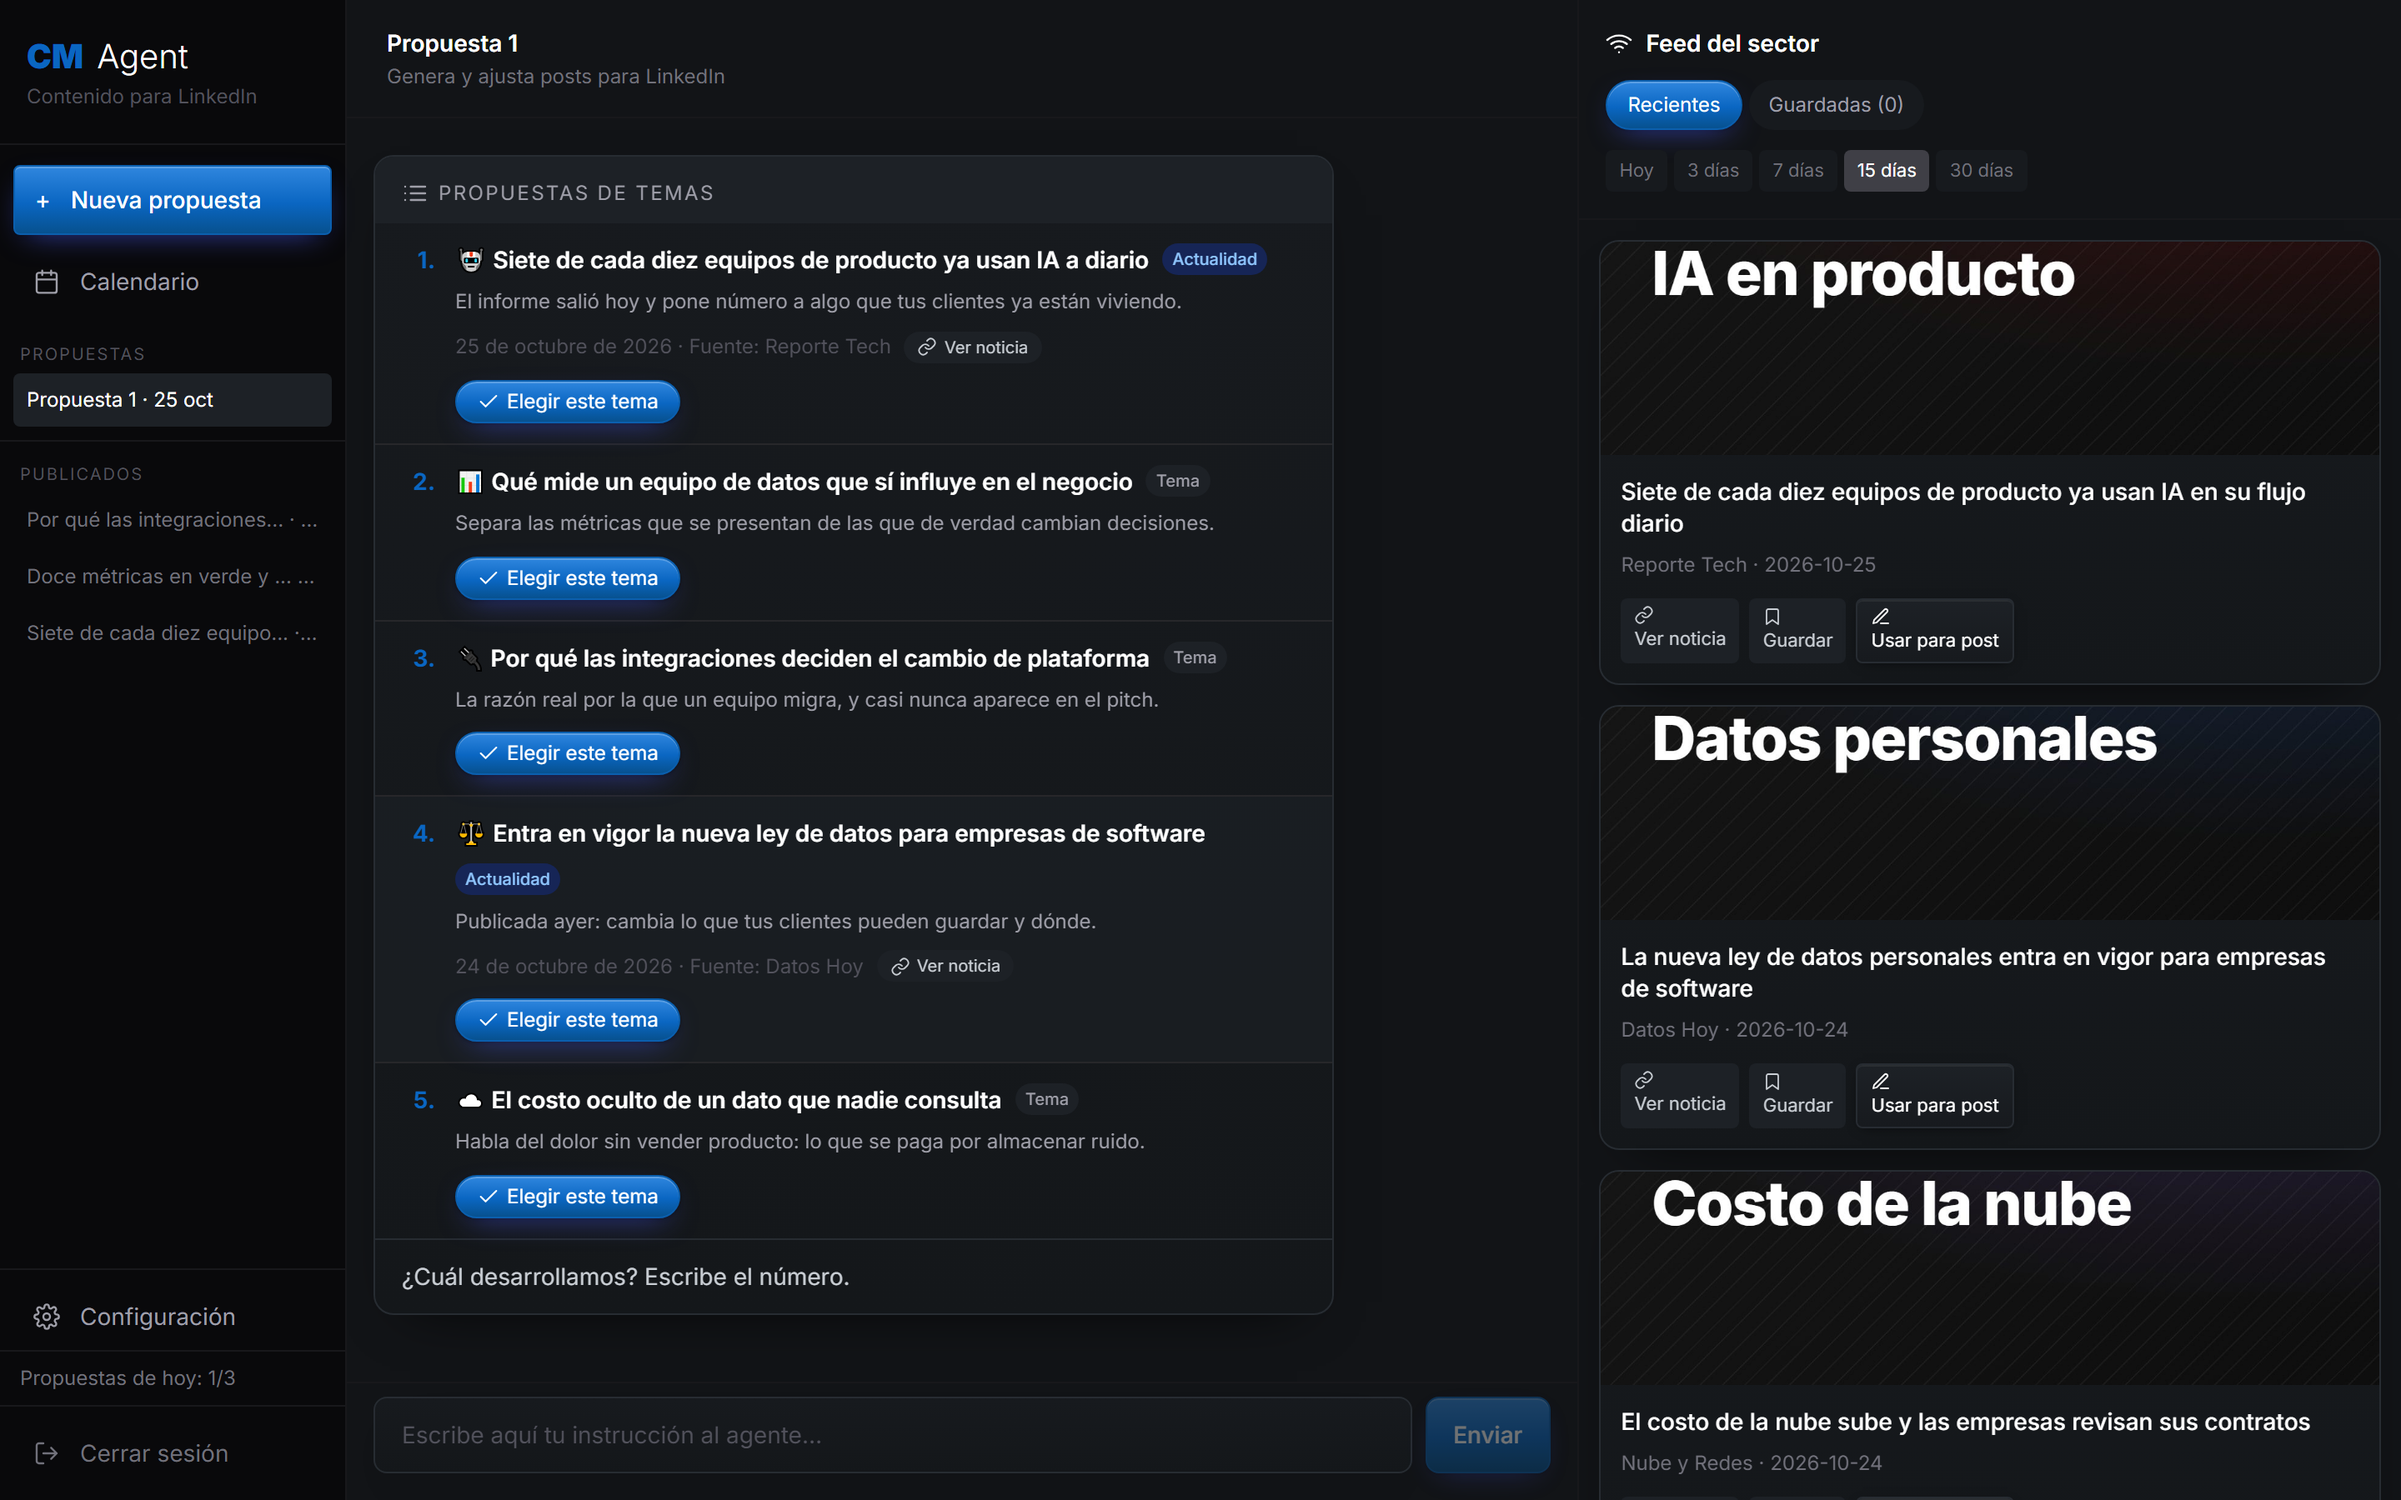
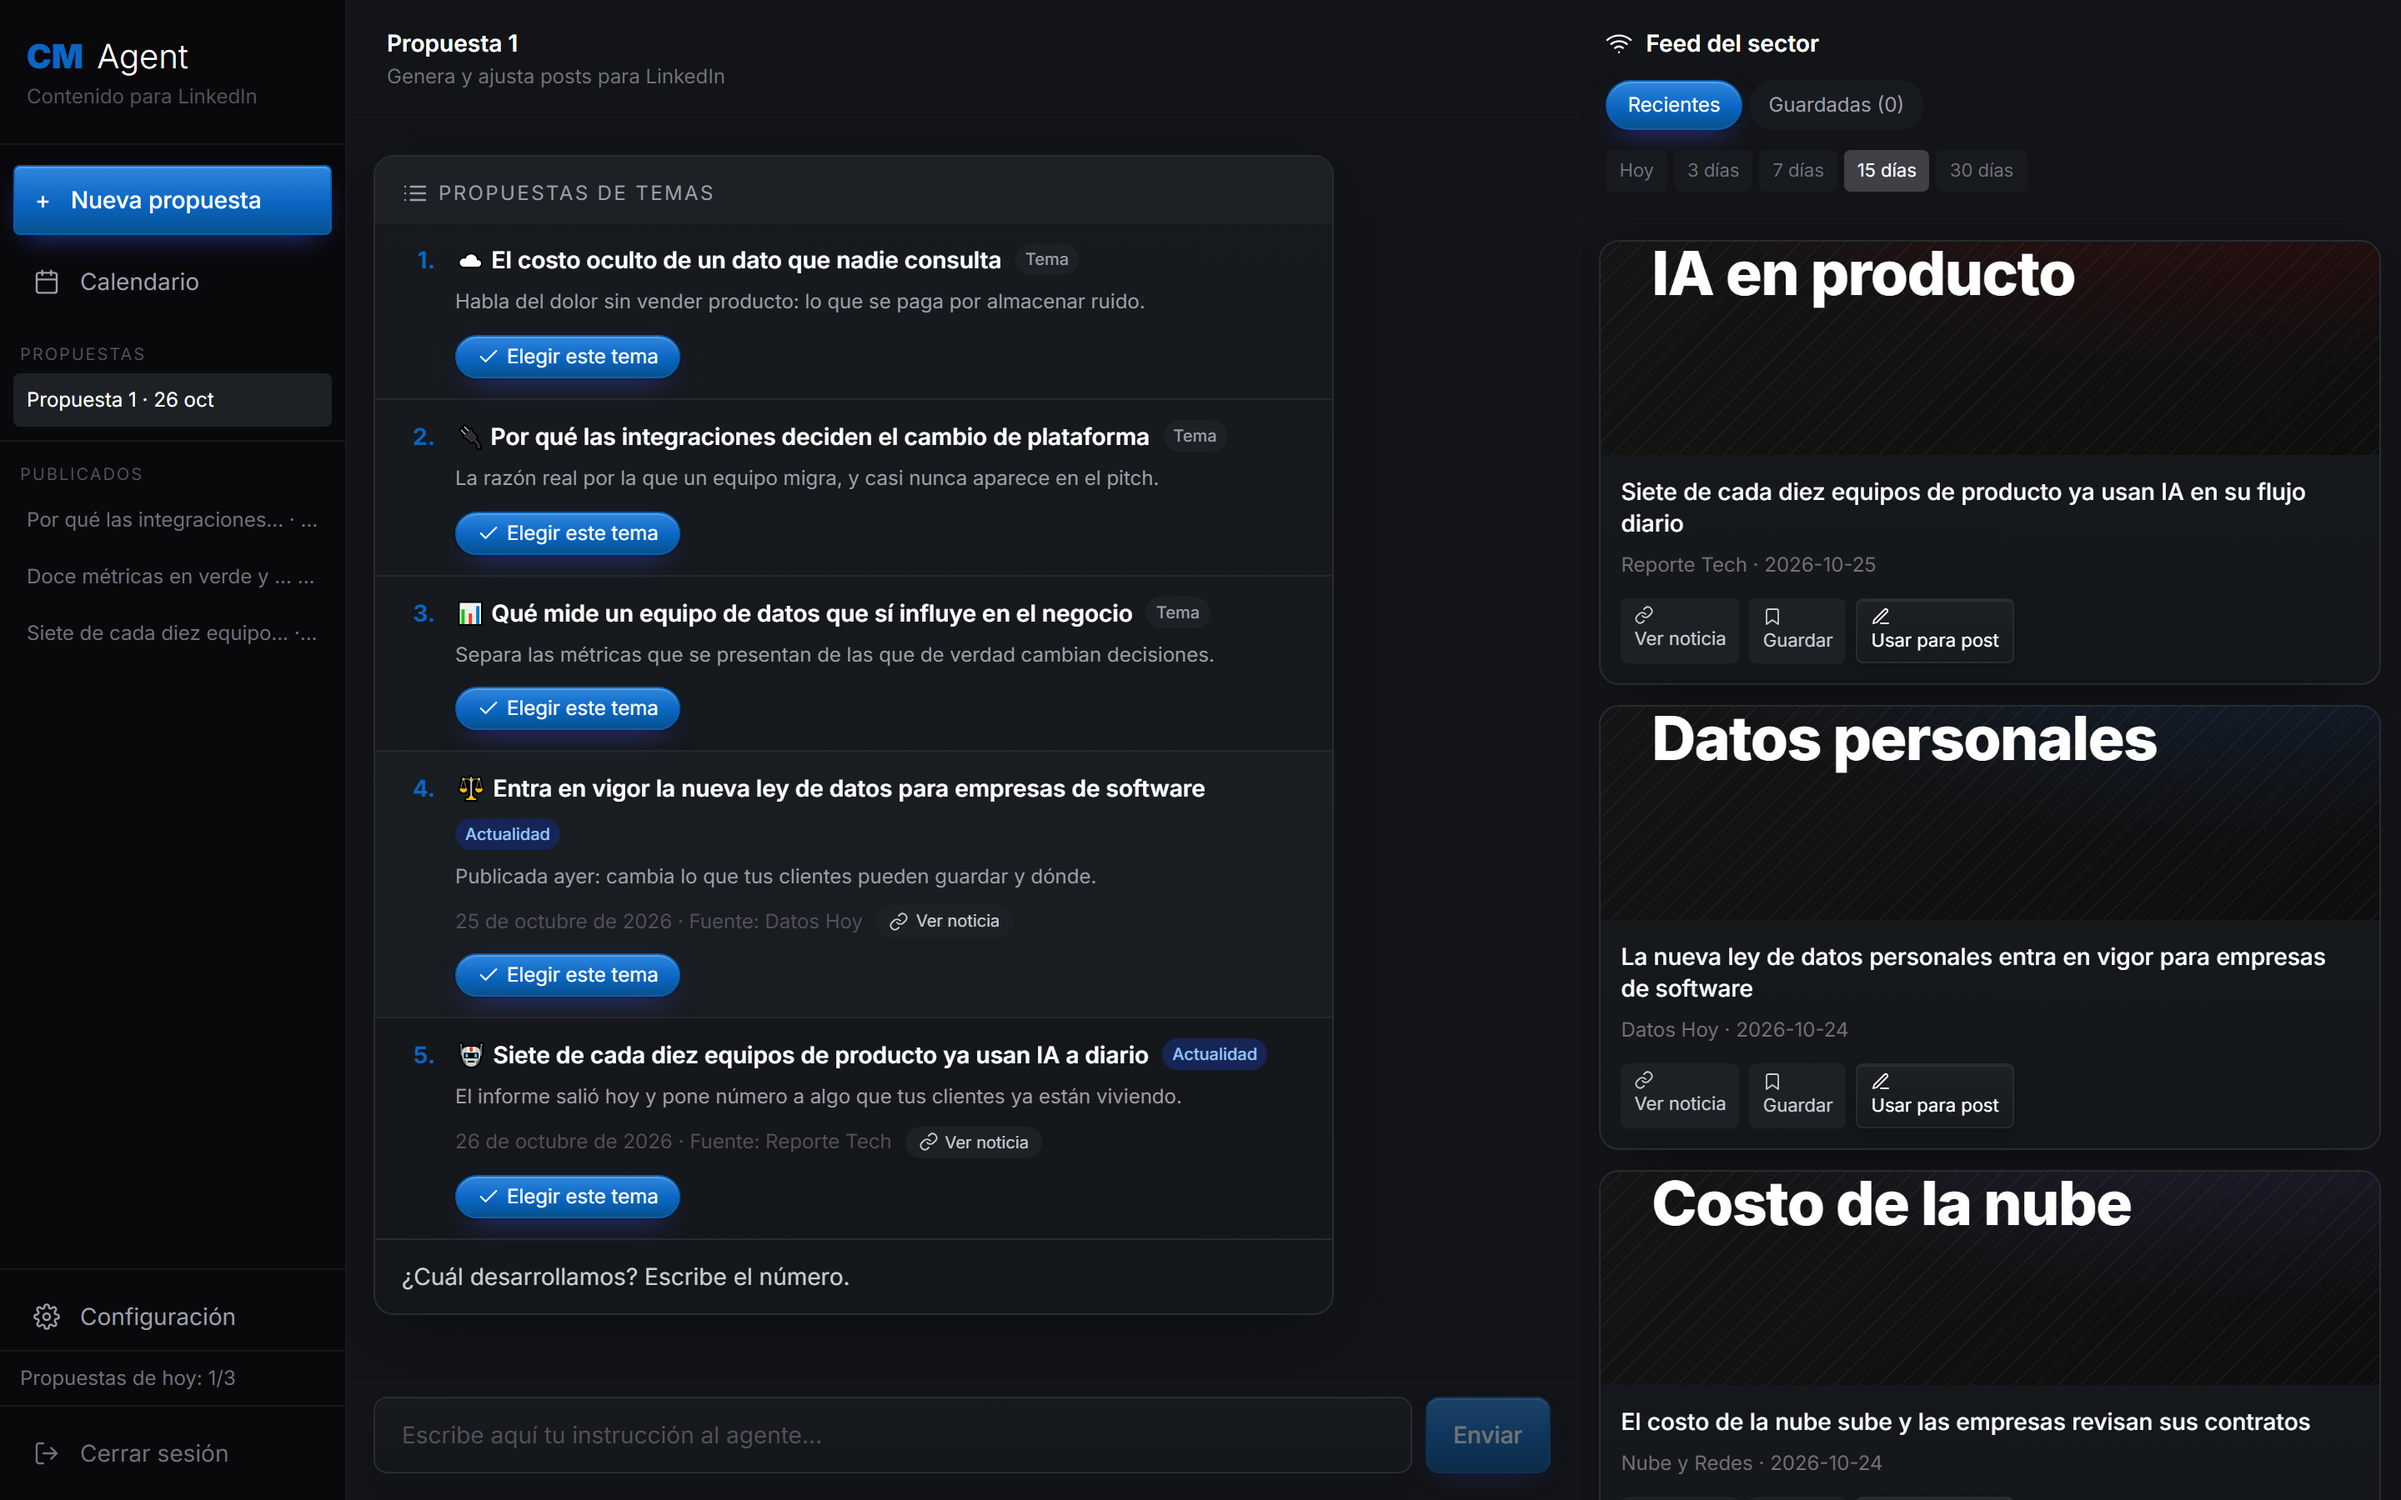
El feed de la demo trae noticias reales, no de ejemplo
Lo que diferencia a esta herramienta es que propone temas a partir de la
actualidad del sector. Con el feed inventado, eso no se puede comprobar: hay
que creérselo.

Los RSS son gratuitos y no necesitan clave, así que en demostración se usan
igual. Lo único que se omite es la búsqueda con el modelo, que es la que
cuesta. Si las fuentes no responden, se cae al feed de ejemplo para que el
panel nunca aparezca vacío.

Además, las noticias se reparten entre fuentes en vez de dejar que el medio
más prolífico cope las diez primeras, y el tiempo de espera de cada feed es
configurable: diez segundos por defecto, que es lo razonable desde un
contenedor.

Changed region(s): [[0.1875, 0.1556, 0.5312, 0.7778]]

diff --git a/lib/news.ts b/lib/news.ts
@@ -170,18 +170,61 @@ export async function fetchOgImage(url: string): Promise<string | undefined> {
  * En modo de demostración devuelve un feed de ejemplo: así la demo publicada no
  * depende de la red ni gasta llamadas al modelo.
  */
+/**
+ * Reparte las noticias entre las fuentes, una de cada una por vuelta.
+ *
+ * Sin esto, el feed lo copa el medio que más publica: las diez primeras eran
+ * del mismo sitio, porque todas llevaban la fecha de hoy y el orden lo decidía
+ * quién llegó antes. Alternar deja ver de entrada que hay varias fuentes.
+ */
+export function intercalarPorFuente(items: NewsItem[]): NewsItem[] {
+  const porFuente = new Map<string, NewsItem[]>();
+  for (const item of items) {
+    const cola = porFuente.get(item.source) ?? [];
+    cola.push(item);
+    porFuente.set(item.source, cola);
+  }
+
+  const colas = [...porFuente.values()];
+  const resultado: NewsItem[] = [];
+
+  while (resultado.length < items.length) {
+    for (const cola of colas) {
+      const siguiente = cola.shift();
+      if (siguiente) resultado.push(siguiente);
+    }
+  }
+
+  return resultado;
+}
+
+/** Ordena, quita repetidas, reparte entre fuentes y busca la portada de cada una. */
+async function componerFeed(items: NewsItem[]): Promise<NewsItem[]> {
+  const ordenadas = intercalarPorFuente(sortByDateDesc(dedupeByUrl(items))).slice(0, MAX_ITEMS);
+  return Promise.all(
+    ordenadas.map(async (item) => ({ ...item, image: await fetchOgImage(item.url) }))
+  );
+}
+
 export async function fetchNews(): Promise<NewsItem[]> {
   const { useDemoAgent } = getServerEnv();
-  if (useDemoAgent) return DEMO_NEWS;
+
+  if (useDemoAgent) {
+    // En demostración el feed también trae noticias **reales**: los RSS son
+    // gratuitos y no necesitan clave, así que lo único que se omite es la
+    // búsqueda con el modelo, que es la que cuesta. Si no hay red —o las
+    // fuentes no responden— se cae al feed de ejemplo, para que el panel nunca
+    // aparezca vacío.
+    const reales = await componerFeed(await fetchRssNews().catch(() => [] as NewsItem[]));
+    return reales.length > 0 ? reales : DEMO_NEWS;
+  }
 
   const [rssItems, aiItems] = await Promise.all([
     fetchRssNews().catch(() => [] as NewsItem[]),
     searchNews().catch(() => [] as NewsItem[]),
   ]);
 
-  const top = sortByDateDesc(dedupeByUrl([...rssItems, ...aiItems])).slice(0, MAX_ITEMS);
-
-  return Promise.all(top.map(async (item) => ({ ...item, image: await fetchOgImage(item.url) })));
+  return componerFeed([...rssItems, ...aiItems]);
 }
 
 export { NEWS_MODEL, MAX_ITEMS };

diff --git a/tests/news.test.ts b/tests/news.test.ts
@@ -1,6 +1,7 @@
 import { afterEach, describe, expect, it, vi } from 'vitest';
 import {
   buildNewsSystemPrompt,
+  intercalarPorFuente,
   dedupeByUrl,
   extractJsonArray,
   fetchOgImage,
@@ -132,6 +133,45 @@ describe('sortByDateDesc', () => {
       { title: 'b', url: 'u2', source: 's', date: '' },
     ];
     expect(sortByDateDesc(items).map((n) => n.title)).toEqual(['a', 'b']);
+  });
+});
+
+describe('intercalarPorFuente', () => {
+  it('alterna entre fuentes en vez de dejar que una copie el feed', () => {
+    const items = [
+      { title: 'a1', url: 'u1', source: 'A', date: '' },
+      { title: 'a2', url: 'u2', source: 'A', date: '' },
+      { title: 'a3', url: 'u3', source: 'A', date: '' },
+      { title: 'b1', url: 'u4', source: 'B', date: '' },
+      { title: 'c1', url: 'u5', source: 'C', date: '' },
+    ];
+
+    expect(intercalarPorFuente(items).map((i) => i.title)).toEqual(['a1', 'b1', 'c1', 'a2', 'a3']);
+  });
+
+  it('no pierde ni duplica ninguna noticia', () => {
+    const items = Array.from({ length: 12 }, (_, i) => ({
+      title: `titular ${i}`,
+      url: `https://medio.example/${i}`,
+      source: i % 3 === 0 ? 'A' : 'B',
+      date: '',
+    }));
+
+    const mezcladas = intercalarPorFuente(items);
+    expect(mezcladas).toHaveLength(items.length);
+    expect(new Set(mezcladas.map((i) => i.url)).size).toBe(items.length);
+  });
+
+  it('con una sola fuente devuelve el mismo orden', () => {
+    const items = [
+      { title: 'a', url: 'u1', source: 'A', date: '' },
+      { title: 'b', url: 'u2', source: 'A', date: '' },
+    ];
+    expect(intercalarPorFuente(items).map((i) => i.title)).toEqual(['a', 'b']);
+  });
+
+  it('con la lista vacía no se queda dando vueltas', () => {
+    expect(intercalarPorFuente([])).toEqual([]);
   });
 });
 

diff --git a/tests/news-fetch.test.ts b/tests/news-fetch.test.ts
@@ -154,19 +154,31 @@ describe('fetchRssNews', () => {
 });
 
 describe('fetchNews', () => {
-  it('en modo de demostración devuelve el feed de ejemplo, sin red', async () => {
-    const fetchSpy = vi.fn();
-    vi.stubGlobal('fetch', fetchSpy);
+  it('en demostración trae noticias reales de los RSS, que no cuestan nada', async () => {
+    const xml = '<rss><channel><item><title>Noticia real</title><link>https://medio.example/real</link></item></channel></rss>';
+    vi.stubGlobal('fetch', vi.fn().mockResolvedValue({ ok: true, text: async () => xml }));
     vi.resetModules();
 
     const { resetServerEnvCache } = await import('@/lib/env');
     resetServerEnvCache();
 
     const { fetchNews } = await import('@/lib/news');
-    const { DEMO_NEWS } = await import('@/lib/news-demo');
 
-    await expect(fetchNews()).resolves.toEqual(DEMO_NEWS);
-    expect(fetchSpy).not.toHaveBeenCalled();
+    const items = await fetchNews();
+    expect(items[0].title).toBe('Noticia real');
+  });
+
+  it('si las fuentes no responden, cae al feed de ejemplo y el panel no queda vacío', async () => {
+    vi.stubGlobal('fetch', vi.fn().mockRejectedValue(new Error('sin red')));
+    vi.resetModules();
+
+    const { resetServerEnvCache } = await import('@/lib/env');
+    resetServerEnvCache();
+
+    const { fetchNews: traer } = await import('@/lib/news');
+    const { DEMO_NEWS: ejemplo } = await import('@/lib/news-demo');
+
+    await expect(traer()).resolves.toEqual(ejemplo);
   });
 
   it('con clave de API junta feeds y búsqueda, sin repetir noticias', async () => {

diff --git a/lib/news-rss.ts b/lib/news-rss.ts
@@ -10,7 +10,7 @@ import { isSafePublicHttpUrl } from './security';
  * extraer cuatro campos. El límite está asumido y anotado en docs/03-diseno.md.
  */
 
-const FEED_TIMEOUT_MS = 6000;
+const FEED_TIMEOUT_MS = Number(process.env.NEWS_FEED_TIMEOUT_MS) || 10000;
 const ITEMS_PER_FEED = 10;
 
 export function decodeEntities(text: string): string {
